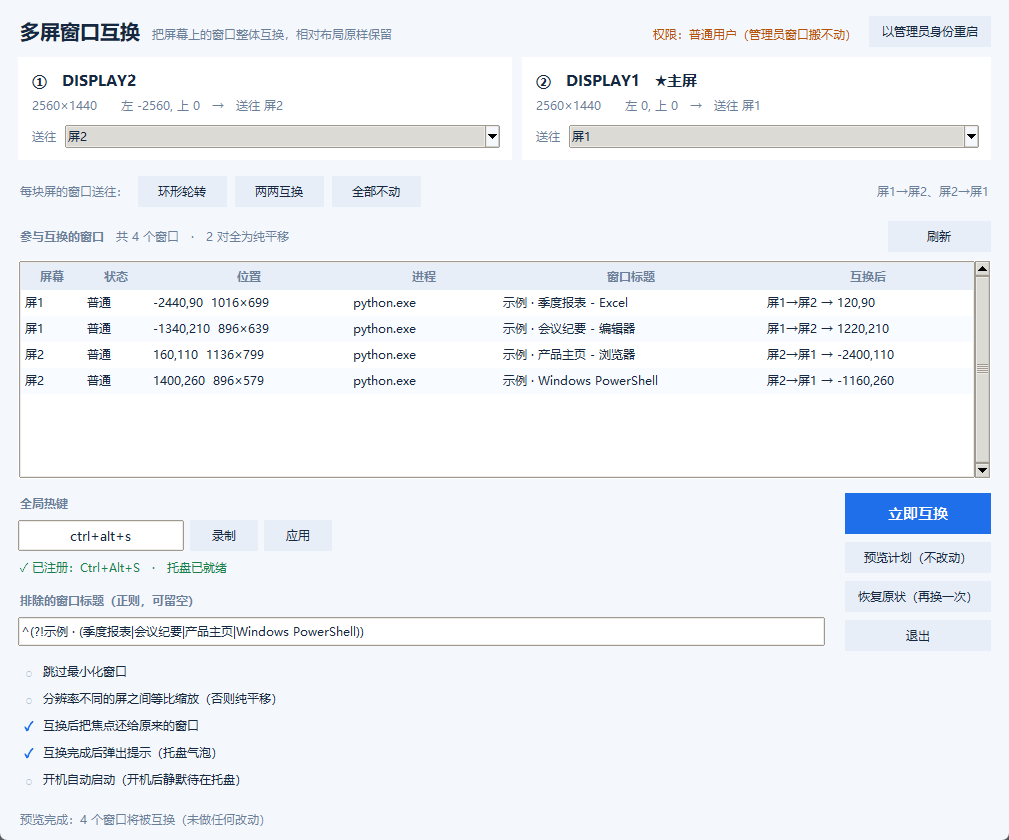
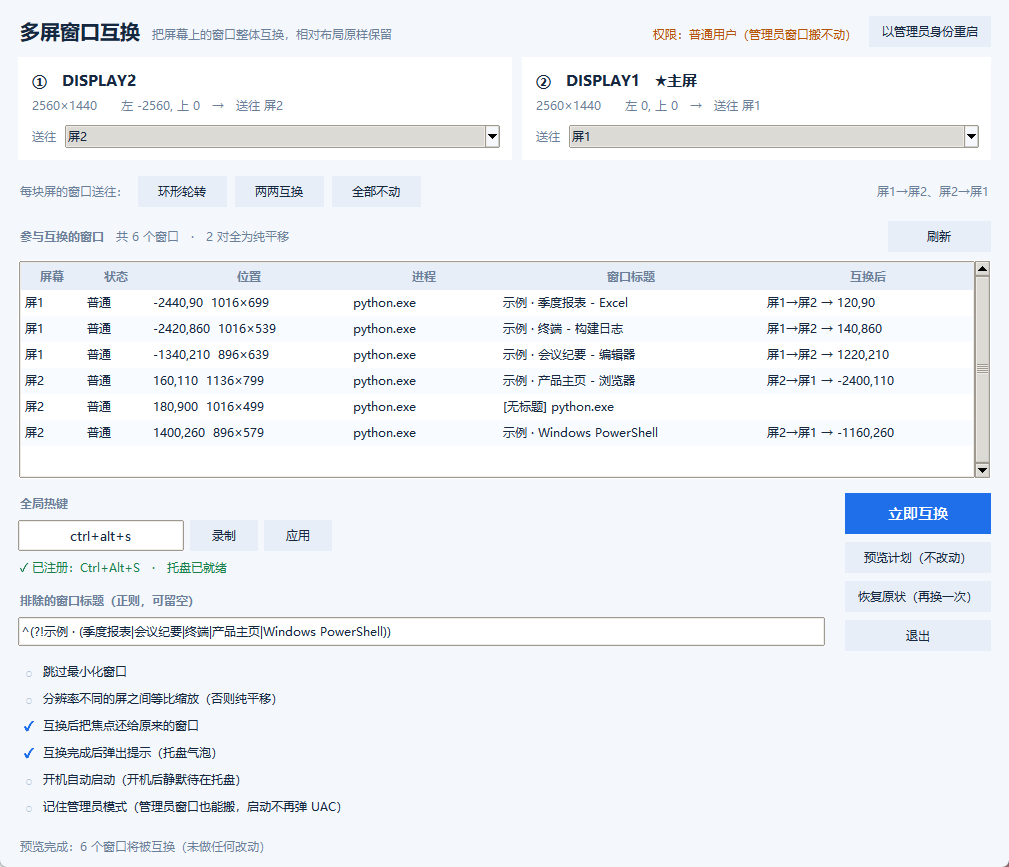
v1.1.5: 修复界面弹窗从未弹出的隐藏 bug
程序从 v1.0 起就一直在用 messagebox 但从未 import，所有弹窗（提权确认、
开机自启失败提醒、互换失败警告、托盘溢出提示）一触发就 NameError 被 Tk 吞掉，
表现是「点了没反应」，且「记住管理员模式」勾选引导会中途断掉。

- 补上 `from tkinter import messagebox`
- 托盘溢出一次性提示改为「先展示成功、再记账」，失败不再吞提示
- 新增 tests/test_static.py：用标准库 symtable 抓「引用了但没定义」的全局名，
  自带反向用例防止检测器自身假绿
- README 测试清单补 test_static
- docs/assets/gui.png 重拍：6 个示例窗口（含一个故意无标题），按进程名收窄过滤

diff --git a/tests/test_static.py b/tests/test_static.py
@@ -1,0 +1,241 @@
+#!/usr/bin/env python3
+# -*- coding: utf-8 -*-
+"""静态自检：专抓「名字没定义」这种只在特定分支才炸的 bug。
+
+为什么值得单独写一个测试文件
+----------------------------
+v1.0 → v1.1.4，`swap_gui.py` 里有 10 处 `messagebox.xxx(...)`，但整个文件
+**从来没有 import 过 messagebox**。这些调用点分散在「提权确认 / 各种警告 /
+托盘溢出一次性提示」等分支里，平时跑不到，一跑到就 `NameError` —— 而它是在
+Tk 的回调里抛的，被 Tk 自己兜住、只在 stderr 打一行 traceback，于是用户看到
+的现象是**「点了没反应」**，完全联想不到是缺一行 import。
+
+后果最重的一处：`_prompt_elevate_for_admin()` 里的 `askyesno` 是勾选
+「记住管理员模式」的**必经之路**，一抛异常，「勾选 → 引导提权 → 创建计划任务」
+整条链路就断了，勾选框还会悄悄弹回去 —— 也就是那个版本的主打功能对普通用户
+**完全不可达**。而当时所有的冒烟测试是全绿的（它们不点那个勾选框）。
+
+这类「引用了但没定义」用 pyflakes 一行就能查出来，但本项目刻意保持零第三方
+依赖，所以这里用标准库 `symtable` 自己把作用域表走一遍：
+凡是「**被读取** + 是**全局名** + 模块顶层**没绑定** + **不是内建**」的名字，
+就是 bug。
+
+用法: python tests/test_static.py
+需要带 tkinter 的解释器（第 ③ 节要 import swap_gui）。
+"""
+import builtins
+import json
+import os
+import re
+import symtable
+import sys
+import tempfile
+
+HERE = os.path.dirname(os.path.abspath(__file__))
+ROOT = os.path.dirname(HERE)
+sys.path.insert(0, ROOT)
+
+# 隔离用户配置（import swap_gui 时它会读 SWAPMONITORS_CONFIG 定下 CFG_PATH）
+TMP = tempfile.mkdtemp(prefix="swapmon-static-")
+TEST_CFG = os.path.join(TMP, "config.json")
+with open(TEST_CFG, "w", encoding="utf-8") as f:
+    json.dump({"hotkey": "ctrl+alt+f10", "exclude_title": ".*", "autostart": False},
+              f, ensure_ascii=False)
+os.environ["SWAPMONITORS_CONFIG"] = TEST_CFG
+
+FILES = ["swap_gui.py", "swap_windows.py"]
+
+# 内建名 + 解释器自动注入的模块级 dunder
+ALLOWED = set(dir(builtins)) | {
+    "__name__", "__file__", "__doc__", "__package__", "__spec__",
+    "__loader__", "__builtins__", "__debug__",
+}
+
+failures = []
+
+
+def check(name, cond, detail=""):
+    print(f"  {'✅' if cond else '❌'} {name}"
+          + (f" —— {detail}" if detail and not cond else ""))
+    if not cond:
+        failures.append(name)
+
+
+def section(t):
+    print()
+    print(f"== {t} ==")
+
+
+def undefined_globals(path):
+    """返回 src 里「被读取但全局作用域里找不到」的名字（已排序）。"""
+    with open(path, encoding="utf-8") as f:
+        src = f.read()
+    top = symtable.symtable(src, path, "exec")
+    # ⚠ 这里只能取「**真正绑定**过的」顶层名字。
+    # 踩过的坑：symtable 的模块表**同时包含**「只在顶层代码里被引用」的名字
+    # （比如 `u32.GetCursorPos.argtypes = [ctypes.POINTER(sw.POINT)]` 里那个 sw），
+    # 直接拿 get_symbols() 全体当「已定义集合」，反向用例就抓不到东西 ——
+    # 当时删掉 `import swap_windows as sw` 却报不出 sw，正是这个原因。
+    # is_assigned()：赋值 / for 目标 / with as / except as / 推导式 / def / class
+    # is_imported()：import 与 from-import
+    defined = {s.get_name() for s in top.get_symbols()
+               if s.is_assigned() or s.is_imported()}
+    bad = set()
+
+    def walk(tbl):
+        for sym in tbl.get_symbols():
+            name = sym.get_name()
+            # is_global()：这个引用要去「模块全局」里找（不是局部变量、不是闭包变量）。
+            # is_referenced()：只算**读**。只有赋值的是定义，不是我们要找的。
+            if (sym.is_referenced() and sym.is_global()
+                    and name not in defined and name not in ALLOWED):
+                bad.add(name)
+        # 函数/类/推导式/lambda 都会开出子作用域，层层走下去
+        for child in tbl.get_children():
+            walk(child)
+
+    walk(top)
+    return sorted(bad)
+
+
+print(f"临时目录: {TMP}")
+
+# ============================================================
+section("① 未定义全局名（v1.1.4 的 messagebox 就是栽在这）")
+for name in FILES:
+    got = undefined_globals(os.path.join(ROOT, name))
+    check(f"{name} 没有「引用了但没定义」的全局名",
+          not got, f"未定义: {got}")
+
+# ============================================================
+section("② 反向验证：检测器真能抓到这类 bug（不然①可能是假绿）")
+_src = open(os.path.join(ROOT, "swap_gui.py"), encoding="utf-8").read()
+_broken_path = os.path.join(TMP, "broken_gui.py")
+
+
+def _strip_once(line):
+    """删掉某一整行（连同换行），写进临时文件，返回检测结果。"""
+    assert _src.count(line) == 1, f"这行在源码里应恰好出现一次: {line!r}"
+    with open(_broken_path, "w", encoding="utf-8") as f:
+        f.write(_src.replace(line, "", 1))
+    return undefined_globals(_broken_path)
+
+
+# 三个各删一个 import 的用例。删的是「不同层级的名字」：
+#   messagebox → 只在函数体里用（正是 v1.1.4 那个 bug 的形状）
+#   sw         → 顶层代码里也在用（`sw.POINT`），专门测上面那个「已定义集合取太宽」的坑
+#   ttk        → 顶层在建控件时用
+check("删掉 `from tkinter import messagebox` 后必须报出 messagebox",
+      "messagebox" in _strip_once("from tkinter import messagebox\n"))
+check("删掉 `import swap_windows as sw` 后必须报出 sw（顶层也引用过它）",
+      "sw" in _strip_once("import swap_windows as sw\n"))
+check("删掉 `from tkinter import ttk` 后必须报出 ttk",
+      "ttk" in _strip_once("from tkinter import ttk\n"))
+
+check("没动过手脚的源码在这几个反向用例下都不报（说明不是无条件报警）",
+      not undefined_globals(os.path.join(ROOT, "swap_gui.py")))
+
+# ============================================================
+section("③ messagebox 运行时确实可用")
+import tkinter                                     # noqa: E402
+import swap_gui as G                               # noqa: E402
+
+check("swap_gui 模块里有 messagebox 这个名字", hasattr(G, "messagebox"))
+check("它就是 tkinter.messagebox（不是同名的别的东西）",
+      getattr(G, "messagebox", None) is tkinter.messagebox)
+
+_src_gui = open(os.path.join(ROOT, "swap_gui.py"), encoding="utf-8").read()
+_calls = sorted(set(re.findall(r"\bmessagebox\.(\w+)", _src_gui)))
+_count = len(re.findall(r"\bmessagebox\.", _src_gui))
+check(f"源码里用到的 {len(_calls)} 个 messagebox 方法都存在",
+      all(hasattr(G.messagebox, m) for m in _calls),
+      f"用到: {_calls}")
+check("四个常用方法齐全（showinfo / showwarning / askyesno / showerror）",
+      all(hasattr(G.messagebox, m) for m in
+          ("showinfo", "showwarning", "askyesno", "showerror")))
+check("调用点数量是预期的 10 处（多一处少一处都该回来看看）", _count == 10,
+      f"实际 {_count} 处")
+
+# ============================================================
+section("④ 「一次性提示」必须先展示成功、再记账（顺序回归）")
+
+
+class _FakeApp:
+    """只带 _overflow_hint 需要的那几个属性的替身，不用起 Tk。"""
+
+    def __init__(self, hidden=False):
+        self.cfg = {}
+        self.hidden = hidden
+        self.hk = None
+        self.root = None
+        self.saved = 0
+
+    def _save(self):
+        self.saved += 1
+
+
+_real_showinfo = G.messagebox.showinfo
+try:
+    # (a) 展示这一步抛异常 → 不许记账，且要返回 False 让调用方有机会重试
+    def _boom(*a, **kw):
+        raise RuntimeError("模拟弹窗失败")
+
+    G.messagebox.showinfo = _boom
+    _a = _FakeApp()
+    _r = G.App._overflow_hint(_a, "tip")
+    check("展示失败时返回 False", _r is False)
+    check("展示失败时**不**记账（_overflow_hint_acked 没被写进 cfg）",
+          "_overflow_hint_acked" not in _a.cfg)
+    check("展示失败时也没落盘", _a.saved == 0)
+
+    # (b) 正常展示 → 记账 + 返回 True
+    G.messagebox.showinfo = lambda *a, **kw: "ok"
+    _b = _FakeApp()
+    _r2 = G.App._overflow_hint(_b, "tip")
+    check("展示成功时返回 True", _r2 is True)
+    check("展示成功时记账", _b.cfg.get("_overflow_hint_acked") is True)
+    check("展示成功时落盘一次", _b.saved == 1)
+
+    # (c) 已记账过就短路，不再弹第二次
+    _c = _FakeApp()
+    _c.cfg["_overflow_hint_acked"] = True
+    check("已提示过时直接返回 False、不再弹",
+          G.App._overflow_hint(_c, "tip") is False and _c.saved == 0)
+finally:
+    G.messagebox.showinfo = _real_showinfo
+
+# hk 存在且界面隐藏（开机自启）时，走气泡通知，也算展示成功
+_src_hint = _src_gui[_src_gui.index("def _overflow_hint"):]
+_src_hint = _src_hint[:_src_hint.index("def _maybe_hint_overflow")]
+check("隐藏状态下走 hk.notify 气泡而不是模态框",
+      "self.hidden" in _src_hint and "self.hk.notify" in _src_hint
+      and "messagebox.showinfo" in _src_hint)
+check("写入 _overflow_hint_acked 的动作在 try 之后（先展示后记账）",
+      _src_hint.index("_overflow_hint_acked\"] = True")
+      > _src_hint.index("messagebox.showinfo"))
+
+# ============================================================
+section("⑤ 语法与字节码")
+for name in FILES:
+    _p = os.path.join(ROOT, name)
+    try:
+        with open(_p, encoding="utf-8") as f:
+            compile(f.read(), _p, "exec")
+        check(f"{name} 能编译通过", True)
+    except SyntaxError as e:                            # noqa: BLE001
+        check(f"{name} 能编译通过", False, f"{e}")
+
+# ============================================================
+section("⑥ 版本号与文档自洽")
+check("APP_VER 形如 x.y.z", bool(re.fullmatch(r"\d+\.\d+\.\d+", G.APP_VER)),
+      G.APP_VER)
+_md_path = os.path.join(ROOT, "README.md")
+_md = open(_md_path, encoding="utf-8").read() if os.path.exists(_md_path) else ""
+for _t in ("test_admin_mode.py", "test_static.py", "test_elevate.py"):
+    check(f"README 的测试清单里列出了 {_t}", _t in _md)
+
+print()
+if failures:
+    print(f"共 {len(failures)} 项失败: {failures}")
+    sys.exit(1)
+print("全部通过 ✅")

diff --git a/swap_gui.py b/swap_gui.py
@@ -22,12 +22,13 @@ import time
 import tkinter as tk
 from ctypes import wintypes
 from tkinter import font as tkfont
+from tkinter import messagebox
 from tkinter import ttk
 
 import swap_windows as sw
 
 APP_TITLE = "多屏窗口互换"
-APP_VER = "1.1.4"
+APP_VER = "1.1.5"
 # 配置目录名沿用 "SwapMonitors"，刻意不跟着显示名走 ——
 # 这样从 v1.0 升级上来时，热键、排除标题等已有设置不会丢。
 CFG_DIR = os.path.join(os.environ.get("APPDATA") or os.path.expanduser("~"), "SwapMonitors")
@@ -1980,7 +1981,7 @@ class App:
             return None
 
     def _overflow_hint(self, tip):
-        """提示用户把图标从 ^ 里拖出来。
+        """提示用户把图标从 ^ 里拖出来。返回 True 表示**确实展示出去了**。
 
         实测结论（2026-10-11，Win11 + 自动隐藏任务栏）：
           * `IsPromoted=1` 写进 HKCU\\Control Panel\\NotifyIconSettings 后**不会立刻生效**
@@ -1990,16 +1991,24 @@ class App:
             拖一次之后由 explorer 自己记住。别再承诺「已自动置顶」了。
         """
         if self.cfg.get("_overflow_hint_acked"):
-            return
+            return False
+        # ⚠ 顺序很关键：**先展示成功、再记账**。
+        # 反过来的话，只要展示这一步抛异常（v1.1.4 就是这么栽的：messagebox 没导入
+        # → NameError），标记已经存盘了，这条「只出现一次」的提示就被永久吞掉，
+        # 用户这辈子都看不到。宁可下次再试一遍，也不能丢。
+        try:
+            if self.hidden:
+                # 开机自启、界面收在托盘里：只能发气泡，别弹窗打扰
+                if self.hk:
+                    self.hk.notify(APP_TITLE, tip, warning=True)
+            else:
+                messagebox.showinfo(APP_TITLE, tip + "\n\n（这条提示只出现一次）",
+                                    parent=self.root)
+        except Exception:                      # noqa: BLE001
+            return False                       # 没展示成功 → 不记账，留机会重试
         self.cfg["_overflow_hint_acked"] = True
         self._save()
-        if self.hidden:
-            # 开机自启、界面收在托盘里：只能发气泡，别弹窗打扰
-            if self.hk:
-                self.hk.notify(APP_TITLE, tip, warning=True)
-        else:
-            messagebox.showinfo(APP_TITLE, tip + "\n\n（这条提示只出现一次）",
-                                parent=self.root)
+        return True
 
     def _maybe_hint_overflow(self, attempt=0):
         """图标虽然注册成功，但 Win11 默认会把它塞进 ^ 溢出区。
@@ -2026,14 +2035,17 @@ class App:
         if self.hk:
             self.hk.promote_icon()
         self.set_status("托盘图标已就绪（在 ^ 隐藏区里，拖出来一次即可固定）")
-        self._overflow_hint(
-            "托盘图标已经注册好了，但被 Win11 放进了任务栏的「^ 隐藏的图标」里，"
-            "所以你在托盘上看不到它。\n\n"
-            "解决办法（一次就够）：\n"
-            "  1. 点任务栏右下角的  ^\n"
-            "  2. 在弹出的面板里找到「多屏窗口互换」\n"
-            "  3. 把它拖到任务栏上（或右键选「固定到任务栏」）\n\n"
-            "之后它就会一直显示在那里；热键不受影响，随时可用。")
+        # 只有**真的展示出去**了才算提示过。失败（比如弹窗那步抛异常）就留着机会，
+        # 等下一次 tray_ok（explorer 重启重挂图标时还会再来一次）再试。
+        if self._overflow_hint(
+                "托盘图标已经注册好了，但被 Win11 放进了任务栏的「^ 隐藏的图标」里，"
+                "所以你在托盘上看不到它。\n\n"
+                "解决办法（一次就够）：\n"
+                "  1. 点任务栏右下角的  ^\n"
+                "  2. 在弹出的面板里找到「多屏窗口互换」\n"
+                "  3. 把它拖到任务栏上（或右键选「固定到任务栏」）\n\n"
+                "之后它就会一直显示在那里；热键不受影响，随时可用。"):
+            self._overflow_hinted = True
 
     # ---------- 事件循环 ----------
     def _poll(self):

diff --git a/tests/demo_windows.py b/tests/demo_windows.py
@@ -27,14 +27,22 @@ import swap_windows as sw  # noqa: E402
 # (标题, 屏序号(1 起), 相对该屏左上角的 x, y, 宽, 高)
 #
 # 标题一律用通用示例，避免泄露真实信息。
-# 所有标题统一带「示例」前缀，这样截图时可以只填 8 个字符的正则 "^(?!示例)"
-# 把其它真实窗口全部排除掉，拍出来的图可以直接公开。
+# 最后一个标题**故意留空**：Electron 类应用（DeepSeek Harness、VS Code、Discord…）
+# 的主窗口常常完全不设标题。v1.1.4 之前这种窗口会被当隐形窗口跳过、永远搬不动，
+# 留一个空的摆在那里，正好证明列表里会出现「[无标题] python.exe」。
+#
+# ⚠ 别指望用标题正则把真实窗口滤掉：`enumerate_windows` 的判断是
+#   `title and skip_title.match(title)`
+# 标题为空时**正则根本不会被求值**，所以 exclude_title 白名单拦不住无标题窗口。
+# 截图侧的过滤已改成按进程名收窄（见 _shots/make_promo.py 的 only_proc）。
 MARK = "示例"
 LAYOUT = [
     (f"{MARK} · 季度报表 - Excel", 1, 120, 90, 1000, 660),
     (f"{MARK} · 会议纪要 - 编辑器", 1, 1220, 210, 880, 600),
+    (f"{MARK} · 终端 - 构建日志", 1, 140, 860, 1000, 500),
     (f"{MARK} · 产品主页 - 浏览器", 2, 160, 110, 1120, 760),
     (f"{MARK} · Windows PowerShell", 2, 1400, 260, 880, 540),
+    ("", 2, 180, 900, 1000, 460),         # ← 故意不设标题
 ]
 # 最大化版：每屏恰好一个，最大化后各占满一块屏
 LAYOUT_MAX = [
@@ -53,7 +61,9 @@ def build(specs, maximize=False):
         win.configure(bg="#ffffff")
         # Tk 的 geometry 里 "+-2560" 表示「x 绝对定位为 -2560」，负坐标屏也能用
         win.geometry(f"{w}x{h}+{rx}+{ry}")
-        tk.Label(win, text=title, bg="#ffffff", fg="#334155",
+        win.update()
+        # 标题为空时窗口本来什么都不显示，里面补一行说明，免得截图时看着像出错了
+        tk.Label(win, text=title or "（本窗口故意不设标题）", bg="#ffffff", fg="#334155",
                  font=("Microsoft YaHei UI", 15)).pack(pady=(36, 6))
         tk.Label(win, text="（演示用窗口，标题为通用示例）", bg="#ffffff", fg="#94a3b8",
                  font=("Microsoft YaHei UI", 10)).pack()
@@ -94,7 +104,7 @@ def main():
               f"{'  主屏' if m.primary else ''}")
     print("\n将创建：")
     for title, mon_no, x, y, w, h in specs:
-        print(f"  屏{mon_no}  ({x},{y}) {w}x{h}   {title}")
+        print(f"  屏{mon_no}  ({x},{y}) {w}x{h}   {title or '(无标题)'}")
 
     if args.list:
         return 0

diff --git a/tests/test_admin_mode.py b/tests/test_admin_mode.py
@@ -296,7 +296,12 @@ check("_handover_show=False 也照样写进去",
 check("DEFAULT_CFG 三个字段齐全",
       all(k in G.DEFAULT_CFG for k in ("run_as_admin", "_pending_admin_setup",
                                        "_handover_show")))
-check("版本号已升到 1.1.4", G.APP_VER == "1.1.4", G.APP_VER)
+# 别写死版本号：每发一版都得回来改一次，迟早会忘，然后测试红得莫名其妙。
+# 只要形如 x.y.z 且不低于 1.1.4 就算过。
+check("APP_VER 是合法的 x.y.z 且不低于 1.1.4",
+      bool(re.fullmatch(r"\d+\.\d+\.\d+", G.APP_VER))
+      and tuple(int(x) for x in G.APP_VER.split(".")) >= (1, 1, 4),
+      G.APP_VER)
 check("--diag 入口存在", callable(G._diag_report))
 
 

diff --git a/README.md b/README.md
@@ -299,6 +299,7 @@ build_exe.bat
 
 ```bash
 python tests/test_map.py              # 映射逻辑与分辨率无关（纯数学，任何机器可跑）
+python tests/test_static.py           # 静态自检：有没有「引用了但没 import」的名字（任何机器可跑）
 python tests/test_elevate.py          # 提权重启前的 PyInstaller 环境清洗（纯逻辑，任何机器可跑）
 python tests/test_autostart.py        # 开机自启的「换位置自愈」逻辑（写临时目录，不碰真实启动项）
 python tests/test_admin_mode.py       # 托盘 TaskbarCreated/图标矩形、空标题窗口、计划任务XML与单实例互斥体
